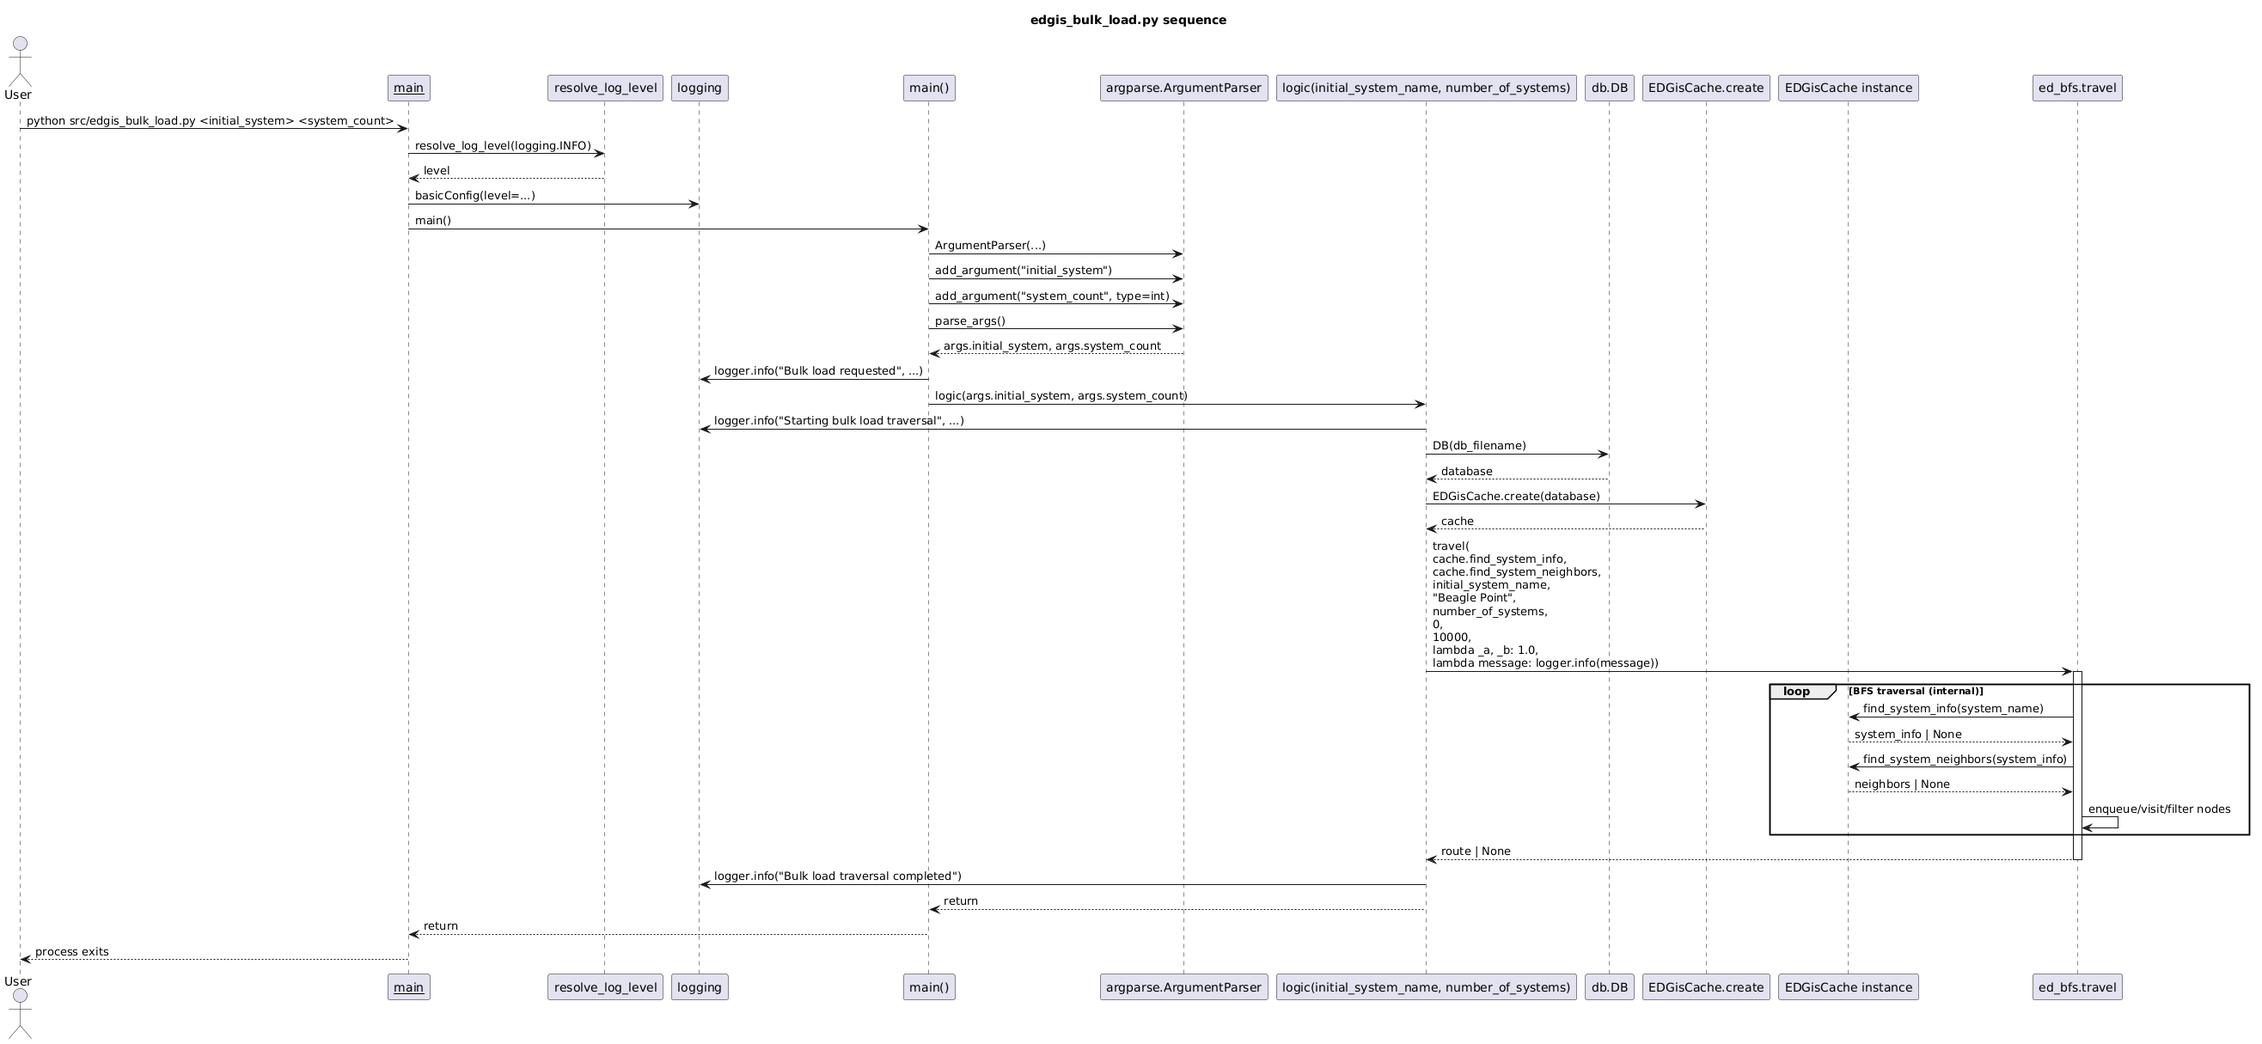
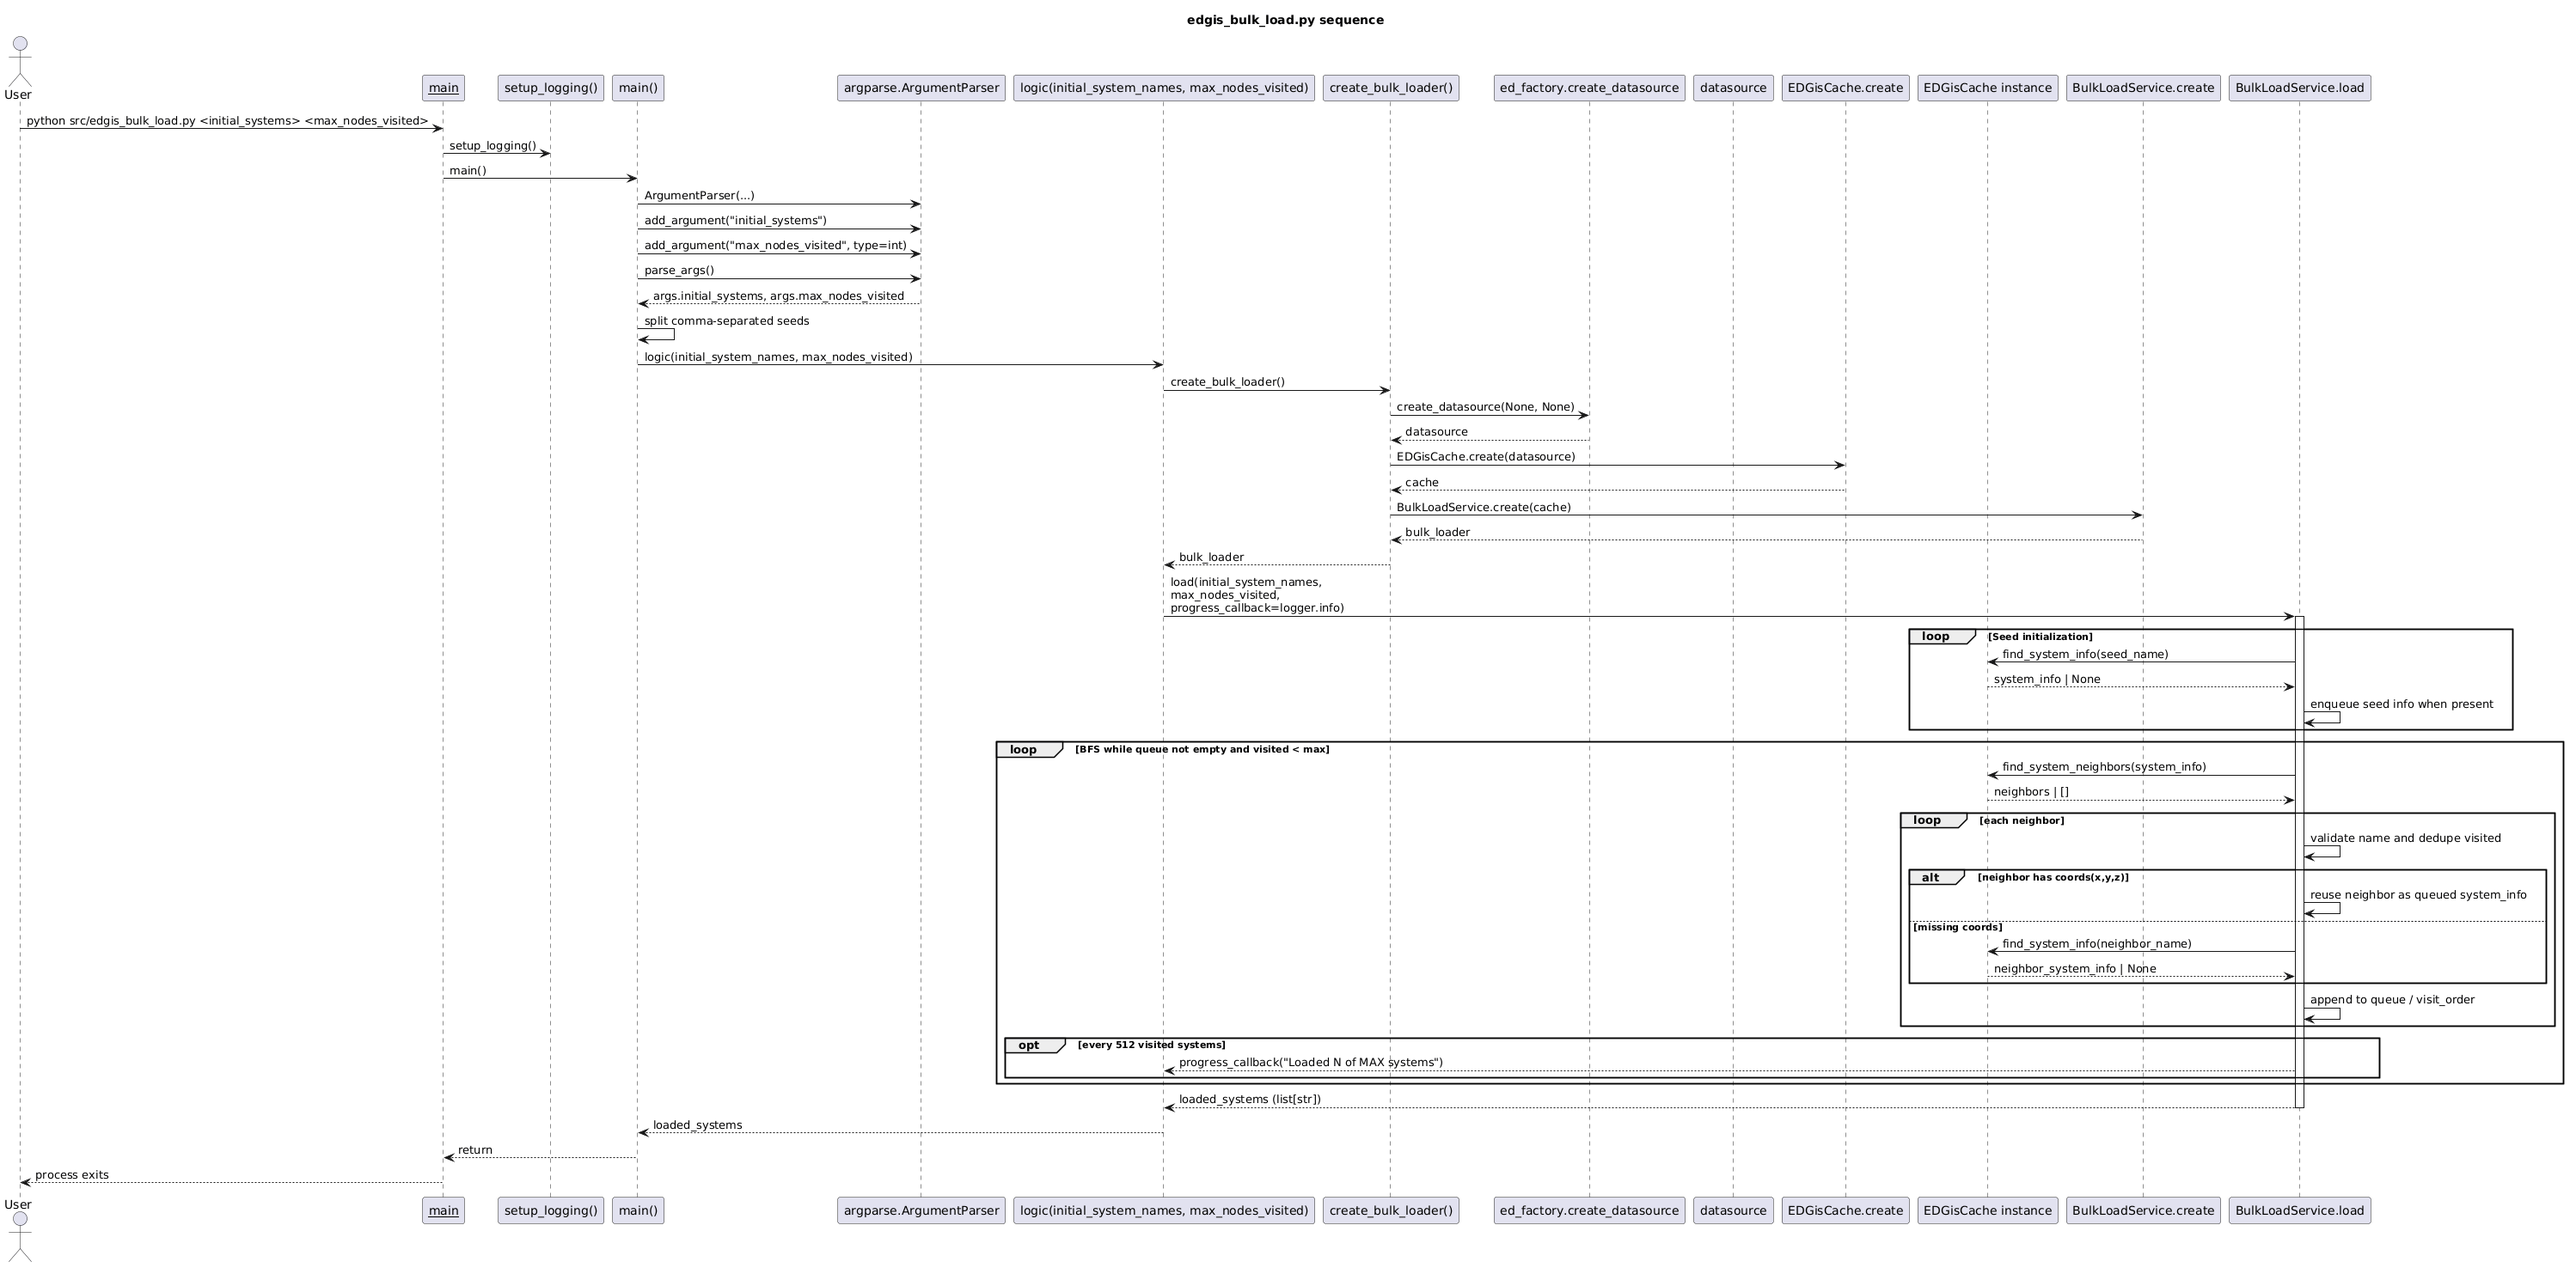
refactored egis_bulk_load.py to start a specific system and expand the frointer of systems till the max node count is reached. Updated the sequence diagram and README.md

diff --git a/src/edgis_bulk_load.py b/src/edgis_bulk_load.py
@@ -1,14 +1,126 @@
 import argparse
-import ed_bfs
 import edgis_cache
 import ed_factory
-from typing import Any
+from collections import deque
+from typing import Any, Callable, Protocol
 from loguru import logger
 from logging_utils import setup_logging
 
 """Utility script to pre-populate local cache by traversing nearby systems."""
 
-db_filename: str = f"{__file__.replace('src', 'data').replace('.py', '.db')}"
+SystemInfo = dict[str, Any]
+FetchInfoFn = Callable[[str], SystemInfo | None]
+FetchNeighborsFn = Callable[[SystemInfo], list[SystemInfo] | None]
+ProgressFn = Callable[[str], None]
+
+
+class CacheProtocol(Protocol):
+    def find_system_info(self, system_name: str) -> SystemInfo | None: ...
+    def find_system_neighbors(self, system_info: SystemInfo) -> list[SystemInfo] | None: ...
+
+
+class BulkLoadService:
+    """Bulk loader with injected cache functions for IoC-friendly composition."""
+
+    def __init__(
+        self,
+        fetch_system_info_fn: FetchInfoFn,
+        fetch_neighbors_fn: FetchNeighborsFn,
+    ) -> None:
+        self.fetch_system_info_fn = fetch_system_info_fn
+        self.fetch_neighbors_fn = fetch_neighbors_fn
+
+    @staticmethod
+    def create(cache: CacheProtocol) -> "BulkLoadService":
+        return BulkLoadService(
+            fetch_system_info_fn=cache.find_system_info,
+            fetch_neighbors_fn=cache.find_system_neighbors,
+        )
+
+    def load(
+        self,
+        initial_system_names: list[str],
+        max_nodes_visited: int,
+        progress_callback: ProgressFn,
+    ) -> list[str]:
+        if max_nodes_visited <= 0:
+            logger.warning(
+                "Skipping bulk load due to non-positive max_nodes_visited={}",
+                max_nodes_visited,
+            )
+            return []
+
+        # Queue system payloads (not just names) so we can expand neighbors
+        # without re-fetching metadata when payloads are already complete.
+        queue: deque[SystemInfo] = deque()
+        visited: set[str] = set()
+        visit_order: list[str] = []
+
+        # Seed BFS frontier from user-provided systems.
+        for system_name in initial_system_names:
+            normalized = system_name.strip()
+            if not normalized or normalized in visited:
+                continue
+            visited.add(normalized)
+            visit_order.append(normalized)
+            system_info = self.fetch_system_info_fn(normalized)
+            if system_info is not None:
+                queue.append(system_info)
+            if len(visited) >= max_nodes_visited:
+                return visit_order
+
+        # Expand outward one hop at a time until queue is exhausted or max cap is hit.
+        while queue and len(visited) < max_nodes_visited:
+            system_info = queue.popleft()
+            neighbors = self.fetch_neighbors_fn(system_info) or []
+            for neighbor in neighbors:
+                neighbor_name = neighbor.get("name")
+                if not isinstance(neighbor_name, str):
+                    continue
+                if neighbor_name in visited:
+                    continue
+
+                visited.add(neighbor_name)
+                visit_order.append(neighbor_name)
+
+                # Prefer neighbor payload reuse to avoid extra cache lookups.
+                queued_neighbor = self._neighbor_as_system_info(neighbor)
+                if queued_neighbor is None:
+                    queued_neighbor = self.fetch_system_info_fn(neighbor_name)
+
+                if queued_neighbor is not None:
+                    queue.append(queued_neighbor)
+                if len(visited) >= max_nodes_visited:
+                    break
+
+            # Mirror existing project pattern: lightweight periodic progress updates.
+            if (len(visited) & 0x1FF) == 0:
+                progress_callback(
+                    f"Loaded {len(visited)} of {max_nodes_visited} systems"
+                )
+
+        return visit_order
+
+    def _neighbor_as_system_info(self, neighbor: SystemInfo) -> SystemInfo | None:
+        coords = neighbor.get("coords")
+        if not isinstance(coords, dict):
+            return None
+        if "x" not in coords or "y" not in coords or "z" not in coords:
+            return None
+        return neighbor
+
+
+def create_bulk_loader(
+    datasource_name: str | None = None,
+    datasource_type: str | None = None,
+) -> BulkLoadService:
+    # Composition root: backend selection is deferred to ed_factory/env config.
+    datasource = ed_factory.create_datasource(
+        datasource_name=datasource_name,
+        datasource_type=datasource_type,
+    )
+    cache = edgis_cache.EDGisCache.create(datasource)
+    return BulkLoadService.create(cache)
 
 
 def main() -> None:
@@ -16,55 +128,42 @@ def main() -> None:
         description="Pre-populate the local EDGIS cache by traversing nearby systems."
     )
     parser.add_argument(
-        "initial_system",
-        help="Name of the starting system (for example: Sol)",
+        "initial_systems",
+        help="Comma-separated list of starting systems (for example: Sol,Alpha Centauri)",
     )
     parser.add_argument(
-        "system_count",
+        "max_nodes_visited",
         type=int,
-        help="Maximum number of systems to traverse",
+        help="Maximum number of unique systems to visit",
     )
     args = parser.parse_args()
+    initial_system_names = [
+        system_name.strip()
+        for system_name in args.initial_systems.split(",")
+        if system_name.strip()
+    ]
     logger.info(
-        "Bulk load requested: initial_system={} system_count={}",
-        args.initial_system,
-        args.system_count,
+        "Bulk load requested: initial_systems={} max_nodes_visited={}",
+        initial_system_names,
+        args.max_nodes_visited,
     )
-    logic(args.initial_system, args.system_count)
+    logic(initial_system_names, args.max_nodes_visited)
 
 
-def logic(initial_system_name: str, number_of_systems: int) -> None:
+def logic(initial_system_names: list[str], max_nodes_visited: int) -> list[str]:
     logger.info(
-        "Starting bulk load traversal from {} with max systems={}",
-        initial_system_name,
-        number_of_systems,
+        "Starting bulk load traversal from {} with max nodes={}",
+        initial_system_names,
+        max_nodes_visited,
     )
-    database = ed_factory.create_datasource(
-        datasource_name=db_filename, datasource_type="tinydb"
+    bulk_loader = create_bulk_loader()
+    loaded_systems = bulk_loader.load(
+        initial_system_names=initial_system_names,
+        max_nodes_visited=max_nodes_visited,
+        progress_callback=lambda message: logger.info(message),
     )
-    cache = edgis_cache.EDGisCache.create(database)
-
-    # Use a distant anchor destination to force outward traversal for warm-up.
-    ed_bfs.travel(
-        cache.find_system_info,
-        cache.find_system_neighbors,
-        initial_system_name,
-        "Beagle Point",
-        number_of_systems,
-        0,
-        10000,
-        lambda _a, _b: 1.0,
-        lambda message: logger.info(message),
-    )
-    logger.info("Bulk load traversal completed")
-
-
-def fetch_system_info() -> Any:
-    return edgis_cache.EDGisCache.find_system_info
-
-
-def fetch_neighbors() -> Any:
-    return edgis_cache.EDGisCache.find_system_neighbors
+    logger.info("Bulk load traversal completed loaded_systems={}", len(loaded_systems))
+    return loaded_systems
 
 
 if __name__ == "__main__":

diff --git a/tests/test_edgis_bulk_load.py b/tests/test_edgis_bulk_load.py
@@ -4,8 +4,100 @@ import edgis_bulk_load
 def main(): ...
 
 
-def test_edgis_bulk_load_logic():
-    edgis_bulk_load.logic("Sol", 100)
+def test_bulk_load_service_walks_neighbors_until_max_nodes():
+    graph = {
+        "Sol": ["Alpha Centauri", "Barnard_s Star"],
+        "Alpha Centauri": ["Luyten_s Star", "Procyon"],
+        "Barnard_s Star": ["Wolf 359"],
+        "Luyten_s Star": [],
+        "Procyon": [],
+        "Wolf 359": [],
+    }
+
+    def fake_find_system_info(system_name: str):
+        return {"name": system_name}
+
+    def fake_find_neighbors(system_info):
+        return [{"name": name} for name in graph[system_info["name"]]]
+
+    bulk_loader = edgis_bulk_load.BulkLoadService(
+        fetch_system_info_fn=fake_find_system_info,
+        fetch_neighbors_fn=fake_find_neighbors,
+    )
+    visited = bulk_loader.load(["Sol"], 4, lambda _message: None)
+    assert visited == ["Sol", "Alpha Centauri", "Barnard_s Star", "Luyten_s Star"]
+
+
+def test_bulk_load_service_reuses_neighbor_payload_without_refetch():
+    graph = {
+        "Sol": ["Alpha Centauri"],
+        "Alpha Centauri": ["Barnard_s Star"],
+        "Barnard_s Star": [],
+    }
+    fetch_info_calls: list[str] = []
+
+    def fake_find_system_info(system_name: str):
+        fetch_info_calls.append(system_name)
+        return {
+            "name": system_name,
+            "coords": {"x": 1.0, "y": 2.0, "z": 3.0},
+        }
+
+    def fake_find_neighbors(system_info):
+        return [
+            {
+                "name": name,
+                "coords": {"x": 1.0, "y": 2.0, "z": 3.0},
+            }
+            for name in graph[system_info["name"]]
+        ]
+
+    bulk_loader = edgis_bulk_load.BulkLoadService(
+        fetch_system_info_fn=fake_find_system_info,
+        fetch_neighbors_fn=fake_find_neighbors,
+    )
+
+    visited = bulk_loader.load(["Sol"], 3, lambda _message: None)
+
+    assert visited == ["Sol", "Alpha Centauri", "Barnard_s Star"]
+    # Only the initial seed needs direct info lookup; neighbors were reused.
+    assert fetch_info_calls == ["Sol"]
+
+
+def test_create_bulk_loader_composes_datasource_and_cache(monkeypatch):
+    datasource_obj = object()
+
+    class FakeCache:
+        def find_system_info(self, system_name):
+            return {"name": system_name}
+
+        def find_system_neighbors(self, system_info):
+            return []
+
+    cache_obj = FakeCache()
+
+    datasource_calls: list[tuple[str, str]] = []
+    cache_calls: list[object] = []
+
+    def fake_create_datasource(datasource_name: str, datasource_type: str):
+        datasource_calls.append((datasource_name, datasource_type))
+        return datasource_obj
+
+    def fake_create_cache(db_obj):
+        cache_calls.append(db_obj)
+        return cache_obj
+
+    monkeypatch.setattr(edgis_bulk_load.ed_factory, "create_datasource", fake_create_datasource)
+    monkeypatch.setattr(edgis_bulk_load.edgis_cache.EDGisCache, "create", fake_create_cache)
+
+    bulk_loader = edgis_bulk_load.create_bulk_loader(
+        datasource_name="test.db",
+        datasource_type="tinydb",
+    )
+
+    assert isinstance(bulk_loader, edgis_bulk_load.BulkLoadService)
+    assert datasource_calls == [("test.db", "tinydb")]
+    assert cache_calls == [datasource_obj]
 
 
 if __name__ == "__main__":

diff --git a/README.md b/README.md
@@ -112,11 +112,6 @@ Loads JSON files from the target import directory into the configured datasource
 ![Init Datasource Sequence Diagram](./docs/discord_bot_sequences/discord_bot_init_datasource.png)
 
 
-![EDGIS Bulk Load Sequence Diagram](./docs/edgis_bulk_load_sequence/edgis_bulk_load_sequence.png)
-
-
-
-
 ## Command Line
 
 The tool also provides a CLI entrypoint:
@@ -212,4 +207,32 @@ Imports JSON system files into TinyDB.
 ![Import Tinydb Sequence Diagram](./docs/datastore_transfer_sequences/import_tinydb.png)
 
 ![Export Tinydb Sequence Diagram](./docs/datastore_transfer_sequences/export_tinydb.png)
+
+## Bulk Data Load Util
+
+Pre-populates the configured datasource cache by doing a breadth-first traversal from one or more seed systems.
+
+Command:
+
+`python ./src/edgis_bulk_load.py <initial_systems> <max_nodes_visited>`
+
+Arguments:
+
+* `initial_systems`: comma-separated list of seed systems (example: `Sol,Alpha Centauri`)
+* `max_nodes_visited`: maximum number of unique systems to visit
+
+Behavior:
+
+* Uses `ed_factory.create_datasource(...)`, so backend selection comes from environment configuration.
+* `DATASOURCE_TYPE=tinydb` uses TinyDB (`TINYDB_NAME` optional override).
+* `DATASOURCE_TYPE=redis` uses Redis (`REDIS_URL` required, `REDIS_APP_NAME` optional namespace).
+* Traverses neighbor systems level-by-level until `max_nodes_visited` is reached.
+* Reuses neighbor payloads when possible to reduce extra info lookups.
+* Emits periodic progress logs while loading.
+
+Example:
+
+`python ./src/edgis_bulk_load.py "Sol,Alpha Centauri" 5000`
+
+![EDGIS Bulk Load Sequence Diagram](./docs/edgis_bulk_load_sequence/edgis_bulk_load_sequence.png)
 
